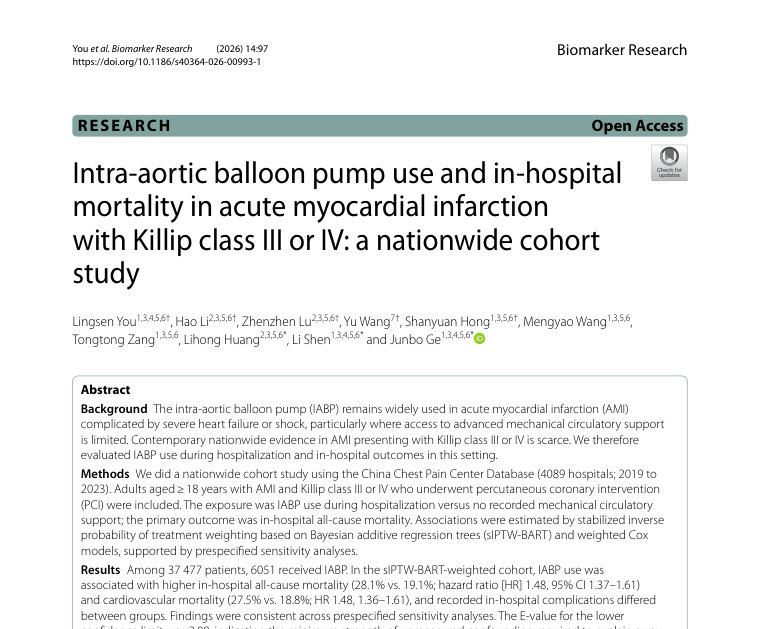
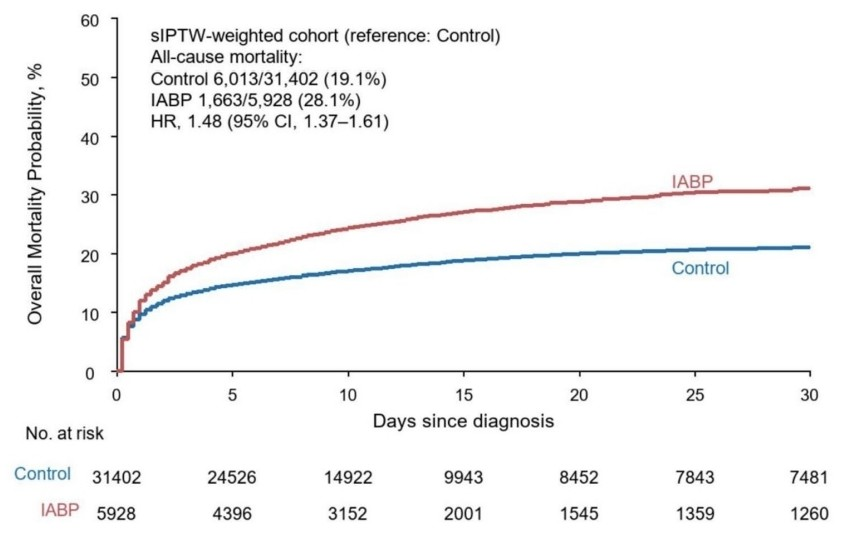
Use the study's mortality curve as the article thumbnail
Replace the first-page render with the Kaplan-Meier figure: sIPTW-
weighted in-hospital all-cause mortality for IABP versus control, with
the numbers at risk. The white border is trimmed so the plot fills the
thumbnail, and the alt text now describes the figure.

On the publications page the image is fitted with object-fit:contain so
the wide plot is shown whole inside the square cover slot rather than
cropped.

Claude-Session: https://claude.ai/code/session_01NnTfFU3ieU3NMSJKzUhLWa

diff --git a/publications/index.html b/publications/index.html
@@ -163,6 +163,7 @@
     .authors strong { color:var(--ink); }
     .summary { margin-top:11px; }
     .doi { display:inline-block; margin-top:8px; font-weight:700; font-size:.9rem; }
+    article img.figure { object-fit:contain; background:#fff; }
     footer { margin-top:50px; padding-top:24px; border-top:1px solid var(--line); color:var(--muted); font-size:.85rem; }
     @media(max-width:760px) { .themes{grid-template-columns:1fr}.hero{padding:45px 0}article{grid-template-columns:90px 1fr;padding:16px;gap:15px}article img{width:90px;height:110px} }
   </style>
@@ -190,7 +191,7 @@
       <h2 id="selected-title">Selected publications</h2>
       <div class="pub-list">
         <article>
-          <img src="../paper7.jpg" alt="Biomarker Research article on intra-aortic balloon pump use in acute myocardial infarction" width="150" height="150" loading="lazy">
+          <img class="figure" src="../paper7.jpg" alt="Kaplan-Meier curves of in-hospital all-cause mortality with and without intra-aortic balloon pump support in the sIPTW-weighted cohort" width="150" height="150" loading="lazy">
           <div><h3><a href="https://doi.org/10.1186/s40364-026-00993-1" rel="noopener">Intra-aortic balloon pump use and in-hospital mortality in acute myocardial infarction with Killip class III or IV: a nationwide cohort study</a></h3><p class="authors"><strong>Lingsen You</strong>, Hao Li, Zhenzhen Lu, Yu Wang, Shanyuan Hong, Mengyao Wang, Tongtong Zang, Lihong Huang, Li Shen, Junbo Ge</p><p class="venue"><cite>Biomarker Research</cite> &middot; August 2026 &middot; 14:97</p><p class="summary">A nationwide cohort of 37,477 patients undergoing PCI for acute myocardial infarction with Killip class III or IV, drawn from the China Chest Pain Center Database (4,089 hospitals, 2019&ndash;2023). Using target-trial emulation with BART-based stabilised inverse probability weighting, intra-aortic balloon pump use during hospitalisation was associated with higher in-hospital all-cause mortality (28.1% vs. 19.1%; HR 1.48, 95% CI 1.37&ndash;1.61).</p><a class="doi" href="https://doi.org/10.1186/s40364-026-00993-1" rel="noopener">DOI: 10.1186/s40364-026-00993-1</a></div>
         </article>
         <article>

diff --git a/index.html b/index.html
@@ -566,7 +566,7 @@
 
             <div class="pub-item">
                 <div class="pub-img-box">
-                    <img src="paper7.jpg" alt="Biomarker Research article on intra-aortic balloon pump use in acute myocardial infarction with Killip class III or IV" class="pub-img" loading="lazy" decoding="async" onerror="this.closest('.pub-img-box').remove()">
+                    <img src="paper7.jpg" alt="Kaplan-Meier curves of in-hospital all-cause mortality with and without intra-aortic balloon pump support in the sIPTW-weighted cohort" class="pub-img" loading="lazy" decoding="async" onerror="this.closest('.pub-img-box').remove()">
                 </div>
                 <div class="pub-details">
                     <a href="https://doi.org/10.1186/s40364-026-00993-1" class="pub-title" target="_blank" rel="noopener">Intra-aortic balloon pump use and in-hospital mortality in acute myocardial infarction with Killip class III or IV: a nationwide cohort study</a>
